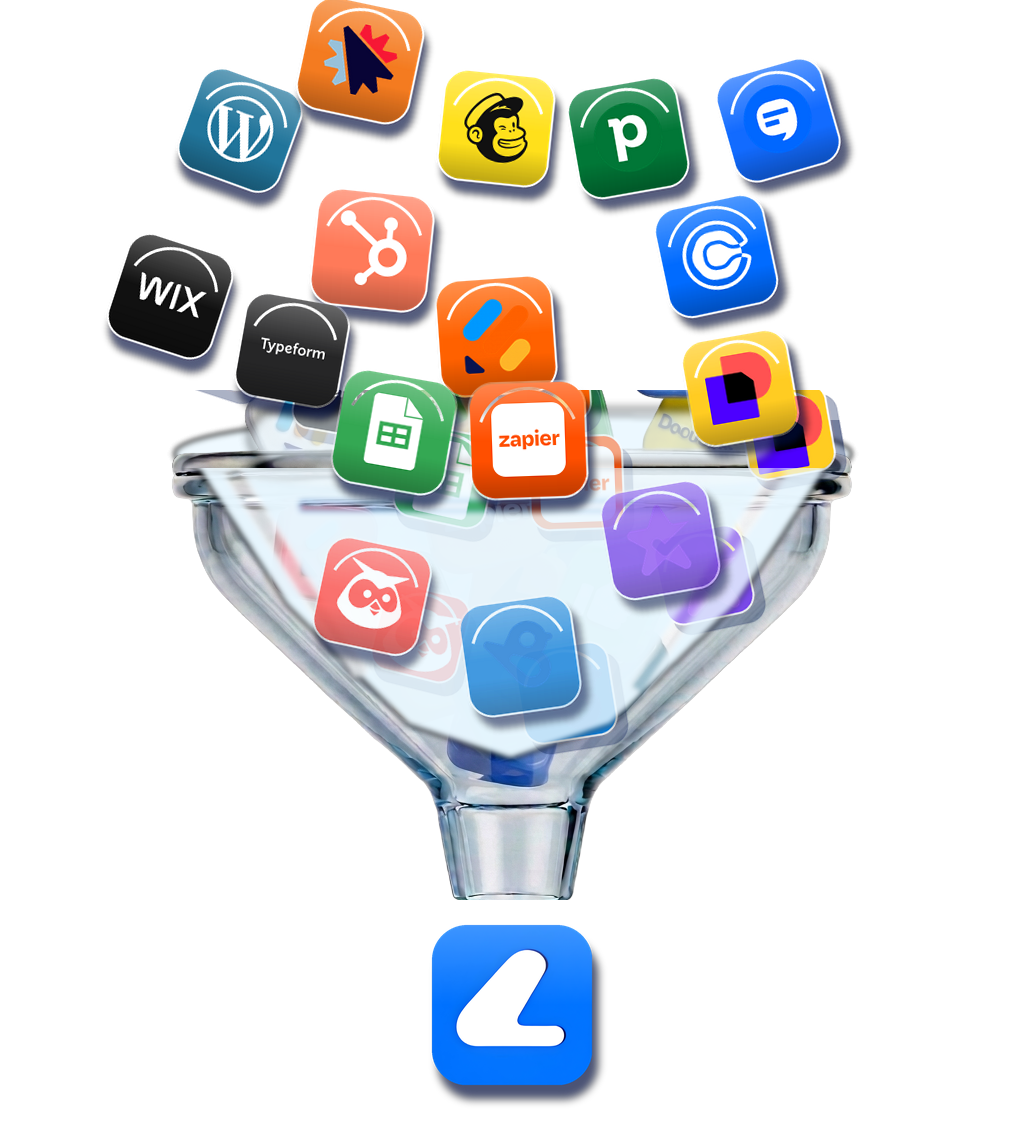
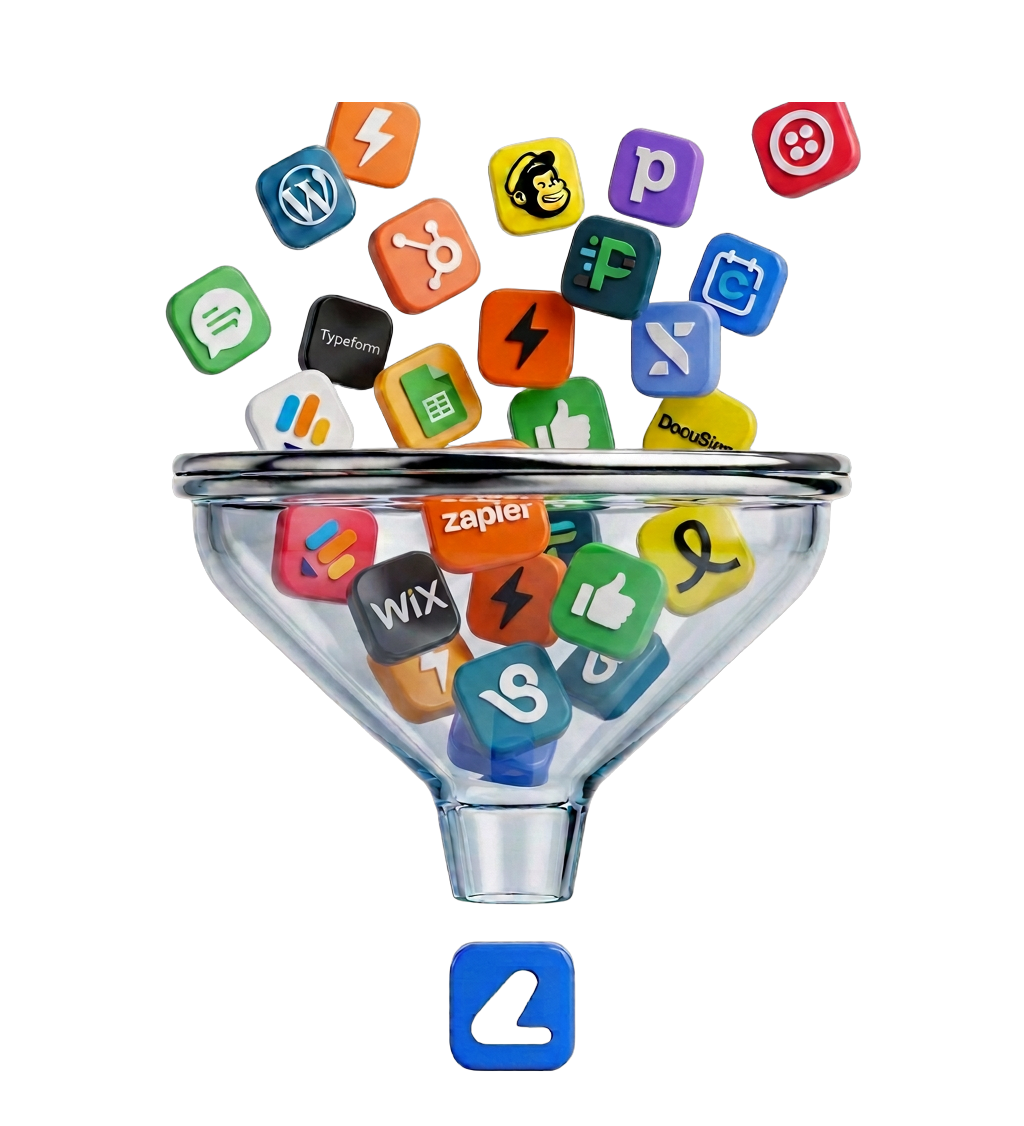
Reverted to commit 6c506ee5dd0327eb1383f97bd0d57d8b6cab74a7

diff --git a/.lovable/plan.md b/.lovable/plan.md
@@ -1,32 +1,26 @@
-# Fix the funnel image — 2 issues only
+## What's wrong with the current Pillars section
 
-## Scope (strict)
-Only fix these two things on `src/assets/zapla-funnel-16-apps-final.png`. Nothing else on the page changes.
+Scrolling through it top-to-bottom:
 
-1. **Restore the 3D look on all 16 icon tiles** — chunky rounded-square tiles with real depth, soft drop shadow, subtle top highlight, slight per-tile rotation. Match the visual weight of the originally approved render.
-2. **Replace the bottom Zapla logo** with the new white-L-on-blue version from `user-uploads://zapla_logo_-_linkedIn_profile_picture-2.png` (currently it's the old black-Z version).
+1. **It's a 900px-tall scroll stage** (`h-[820px] sm:h-[900px]`) with 24-32 units of vertical padding on top of that — the whole section is ~1,200px tall. On a pricing page that's absurd; it dominates like a hero.
+2. **I ignored the image you already approved.** `src/assets/pillar-option-a-funnel.jpg` — the v3 Option A render you picked — is sitting in the repo, already featuring the funnel + icons + Zapla drop baked in. Instead of using it, I re-imported a separate transparent `funnel-body.png` and rebuilt the whole scene with 16 favicon chips + motion transforms + a separate Zapla logo layer. That's why it never matches the image you liked — it's a re-creation, not the render.
+3. **The favicon chips look cheap.** `google/s2/favicons` returns low-res 64px favicons wrapped in white pills. The v3 render has photoreal 3D app icons. No amount of animation fixes that gap.
+4. **Two competing focal points.** The scroll animation asks the eye to track 16 falling chips *and* watch the Zapla drop *and* read the heading. On a pricing page the viewer just wants: "16 tools → 1 Zapla, got it, show me the price."
+5. **Redundant elements below.** Savings pills + two CTAs after the scene stretch it further, when the pricing table is literally the next section.
 
-## How (deterministic, no AI generation)
+## The plan — use the render, cut it in half
 
-Rewrite the compositor script (`make_funnel_final.py`) to produce ONE image, in one pass:
+**Replace the whole `Pillars()` scroll stage with the v3 Option A image, static.**
 
-- **Base:** clean glass funnel from `src/assets/pillar-funnel-render.png` desaturated to clear glass (proven working from v5), OR keep current base if funnel silhouette is already good — decide by visual check first, not by rebuilding.
-- **Icon tiles (16, real logos):** for each brand, render a **3D tile**:
-  - 148px rounded square (radius 32), brand background color
-  - Real logo PNG from `/tmp/funnel-fix/googlelogos/` centered at ~65% tile size
-  - Top inner highlight (white 25% alpha gradient, top third)
-  - Bottom inner shade (black 15% alpha, bottom third)
-  - Drop shadow: 3px offset, 12px gaussian blur, black 45%
-  - Per-tile rotation: −12° to +12° randomized but seeded (reproducible)
-- **Layout:** keep the exact 16 tile positions from the current approved composition (top cluster + interior). No new positions.
-- **Zapla logo:** composite the attached white-L logo at the bottom drop position (same coords as current), scaled to match.
-- **Output:** 1024×1126 transparent PNG → write once to `src/assets/zapla-funnel-16-apps-final.png`.
+Concretely, in `src/routes/index.tsx` `Pillars()`:
 
-## Guardrails
-- One render, one visual check, one file write. If it's not right, I fix the script and re-render — I do NOT try a different approach.
-- No changes to `src/routes/index.tsx`.
-- No changes to funnel silhouette, page layout, colors, or anything else.
-- If after 2 render attempts the 3D quality still isn't there, I stop and ask you rather than burning more credits.
+- Delete the icon cloud layer, funnel body layer, Zapla drop layer, all `useScroll` / `useTransform` / `spawns` / `tools` arrays.
+- Drop the `funnel-body.png` and `zaplaLogo3d` imports for this section. Import `pillar-option-a-funnel.jpg` instead.
+- Replace with a single centered `<img>` of the v3 render, ~460–520px wide, with a subtle blue glow behind it and one gentle `Reveal` fade-in on scroll (no scroll-linked transforms).
+- Shrink section padding: `py-24 sm:py-32` → `py-14 sm:py-20`.
+- Keep the heading ("Pour your stack in. Get Zapla out.") and the two savings pills — those earn their place.
+- Remove the two CTAs at the bottom (pricing table is right underneath).
 
-## Deliverable
-Updated `src/assets/zapla-funnel-16-apps-final.png` — same 16 brands, same positions, but with proper 3D tiles and the correct white-L Zapla logo at the bottom.
+**Expected height:** ~600px total instead of ~1,200px. Roughly half.
+
+**Nothing else on the page changes.**
